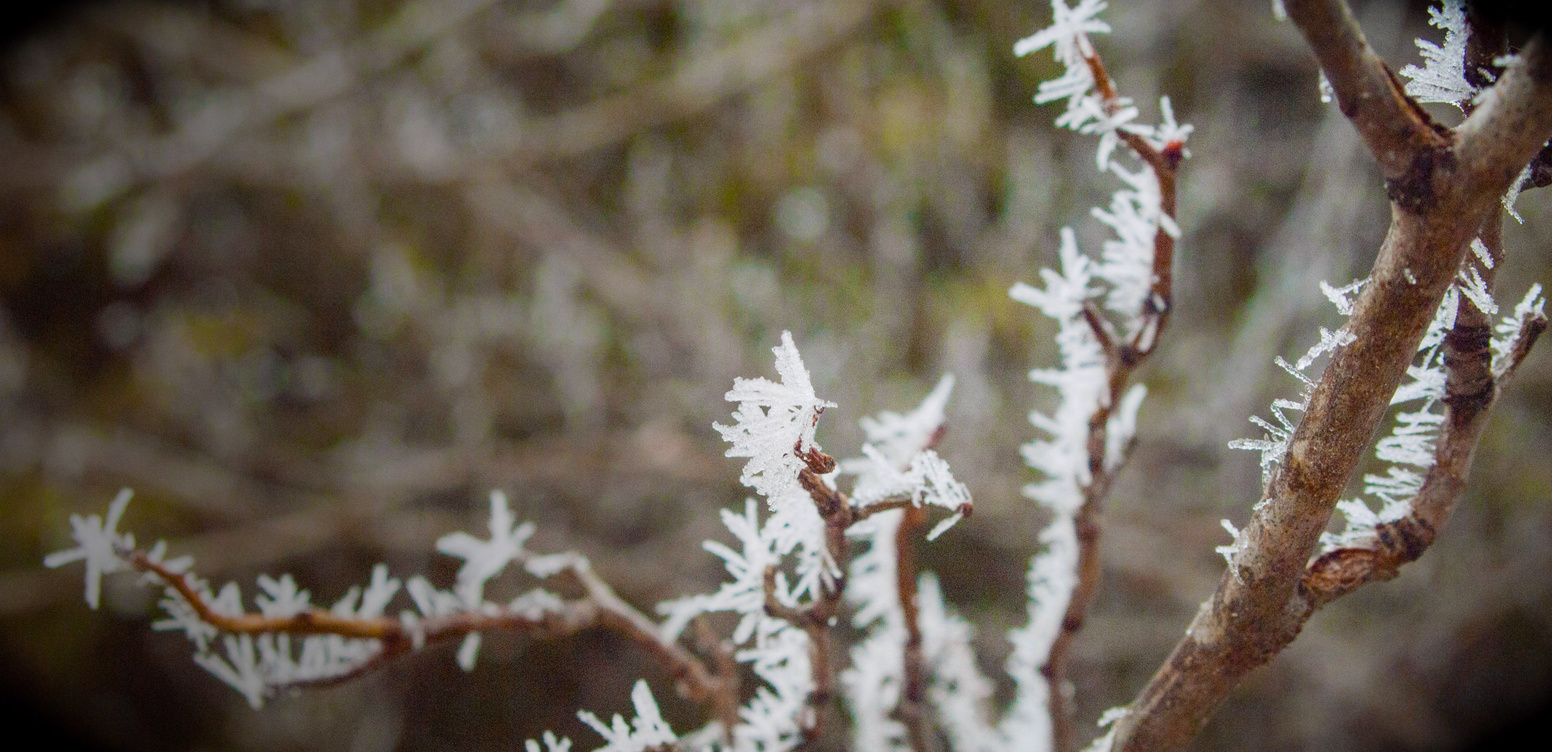
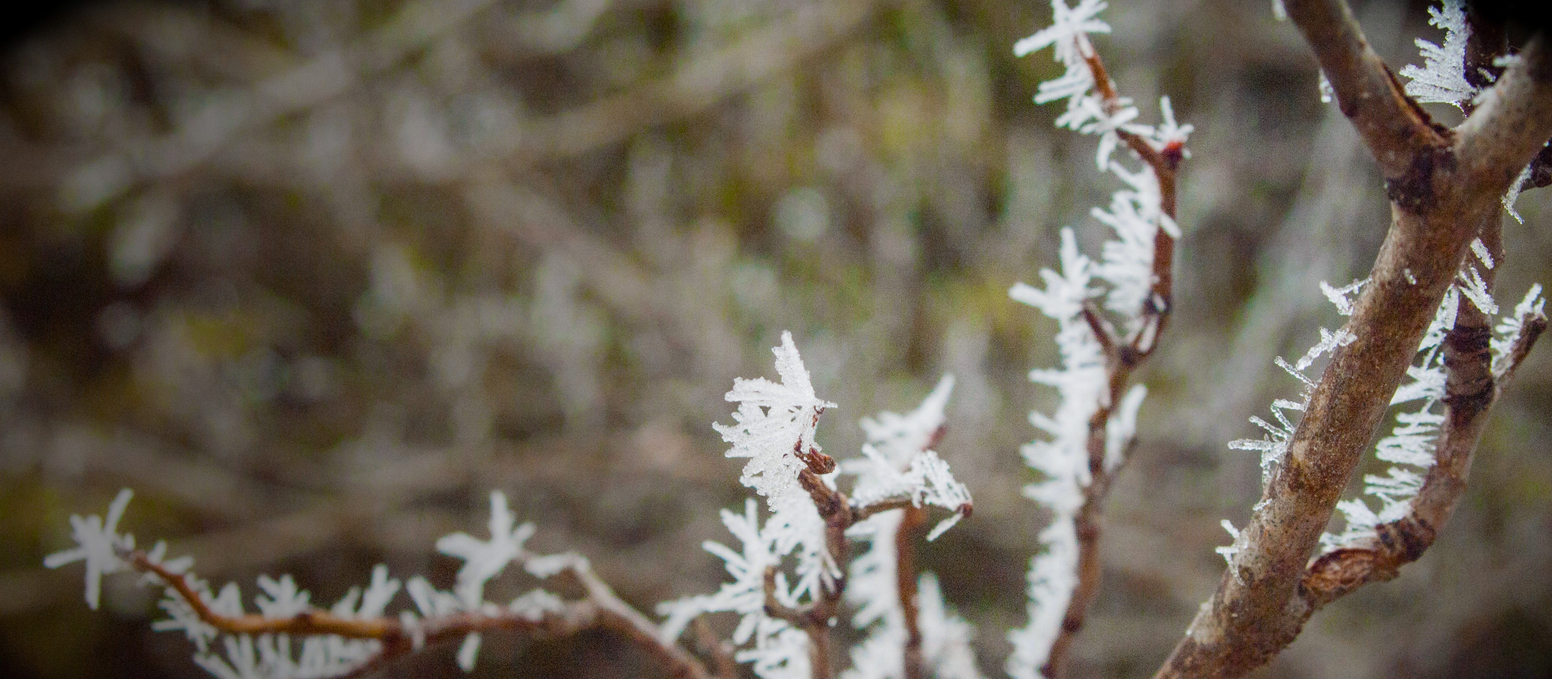
Fix parallax to work with any images and update images.

diff --git a/public/js/main.js b/public/js/main.js
@@ -1,9 +1,26 @@
+var adjust_parallax = function() {
+    $('.bg').each(function() {
+        var img_top = $(this).offset().top,
+            img_height = $(this).height(),
+            window_top = $(window).scrollTop(),
+            window_height = $(window).height();
+        // Return if image is offscreen
+        if (img_top > window_top + window_height) return;
+        if (window_top > img_top + img_height) return;
+        // Define offset as distance from top of window to top of image
+        var offset = img_top - window_top;
+        // Determine range of possible offsets
+        var offset_max = Math.min(window_height, img_top + 40);
+        var offset_min = -img_height;
+        // Compute percent offset and use to adjust image position
+        var percent_offset = 100 * (offset - offset_min) / (offset_max - offset_min);
+        percent_offset = Math.max(0, Math.min(100, percent_offset));
+        var coords = 'center ' + percent_offset + '%';
+        $(this).css({ backgroundPosition: coords });
+    });
+}
+
 $(document).ready(function() {
-    $(window).scroll(function() {
-        var percent = ($(window).scrollTop() + 40) / 6;
-        percent = 100-Math.max(0, Math.min(100, percent));
-        console.log(percent);
-        var coords = 'center ' + percent + '%';
-        $('.bg').css({ backgroundPosition: coords });
-    })
+    adjust_parallax();
+    $(window).scroll(adjust_parallax);
 });

diff --git a/server.js b/server.js
@@ -53,7 +53,6 @@ app.get('/users', function (req, res){
 });
 
 app.post('/users/new', function (req, res) {
-  console.dir(req.body);
   var user = new User({
       name: req.body.user.name,
       email: req.body.user.email,
